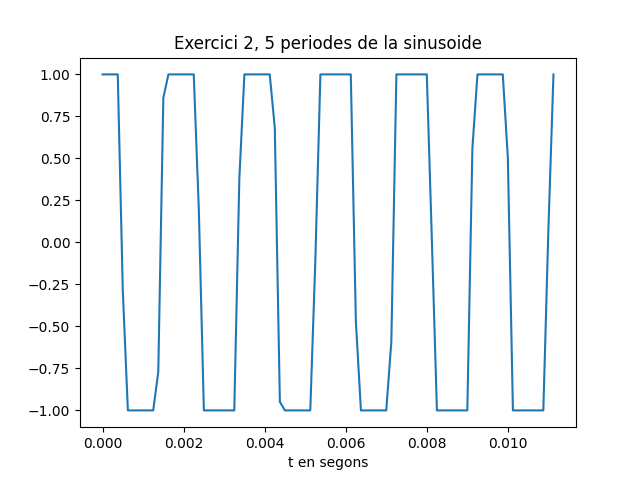
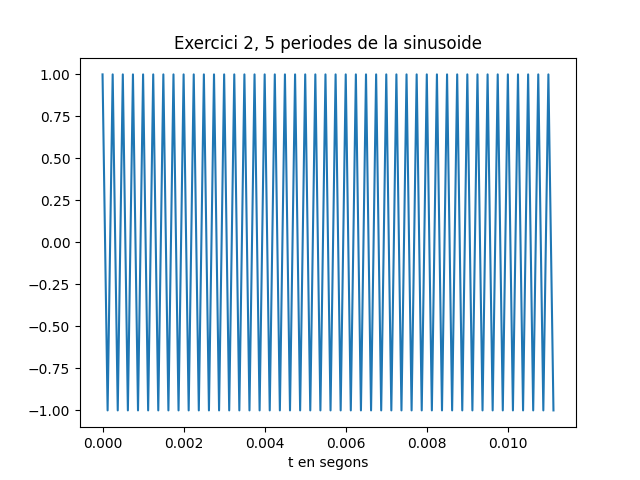
pr1

Changed region(s): [[0.1562, 0.125, 0.875, 0.875]]

diff --git a/asa_codi.py b/asa_codi.py
@@ -84,7 +84,7 @@ plt.show()
 
 # Exercici 2
 
-x_r, fm=sf.read('nom_fitxer2.wav')         #agafo la senyal del segon fitxer creat en el exercici anterior, agafo la seva
+x_r, fm=sf.read('nom_fitxer1.wav')         #agafo la senyal del segon fitxer creat en el exercici anterior, agafo la seva
 #informació i la fm
 Tm=1/fm                            
 t=Tm* np.arange(len(x_r))               
@@ -175,14 +175,14 @@ plt.show()
 
 
 N=5000                        
-X=fft(data[0 : L], N)           
+X=fft(data[0 : L], N)       
 k=np.arange(N)                        
 FK=k/N * fm
 k2=np.arange(len(FK/2),len(FK))                       
 plt.figure(42)                         
 plt.subplot(211)                      
-plt.plot(k2,abs(20*np.log10(X/max(X)))) 
-plt.title(f'Transformada del senyal de Ls={Ls} mostres amb DFT de N={N}')   
+plt.plot(k2,abs(20*np.log10(int(X[fm/2:fm])/max(int(X[fm/2:fm]))))) 
+plt.title(f'Transformada del senyal de Ls={L} mostres amb DFT de N={N}')   
 plt.ylabel('|X[k]|')                 
 plt.subplot(212)                      
 plt.plot(k2,np.unwrap(np.angle(X)) )   

diff --git a/README.md b/README.md
@@ -191,12 +191,17 @@ plt.show()
 <img src="img/Figure_122.png" width="480" align="center"> 
 
 **Comentari**
+En el primer cas hem pogut observar que 5 periodes duren aproximadament 1ms i amb una amplitud de 4. 
+La seva transformada es una sinc de amb el modul de 40. El nombre de mostres en aquest cas es de 10 en els 5 periodes.
+
+En el segon cas a la primera gràfica en funció de temps veiem que 5 periodes duren 8ms i amb una amplitud de 4.
+La seva transformada postra dos pulsos amb el modul a aproximadament 150. El nombre mostres en aquest cas es 76 en els 5 periodes
 
 2. Modifica el programa per considerar com a senyal a analitzar el senyal del fitxer wav que has creat 
     (`x_r, fm = sf.read('nom_fitxer.wav')`).
 
 ```python
-x_r, fm=sf.read('nom_fitxer2.wav')         #agafo la senyal del segon fitxer creat en el exercici anterior, agafo la seva
+x_r, fm=sf.read('nom_fitxer1.wav')         #agafo la senyal del segon fitxer creat en el exercici anterior, agafo la seva
 #informació i la fm
 Tm=1/fm                            
 t=Tm* np.arange(len(x_r))               
@@ -238,6 +243,8 @@ plt.show()
 <img src="img/Figure_22.png" width="480" align="center"> 
 
     - Explica el resultat del apartat anterior.
+He utilizat la senyal del fitxer que he creat amb  fx= 4kHz, d'aquesta manera m'ha donat
+
 
 3. Modifica el programa per representar el mòdul de la Transformada de Fourier en dB i l'eix d'abscisses en el marge de
     $0$ a $f_m/2$ en Hz.
